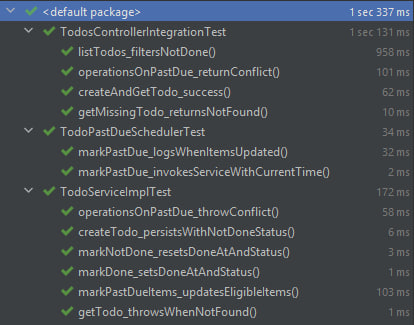
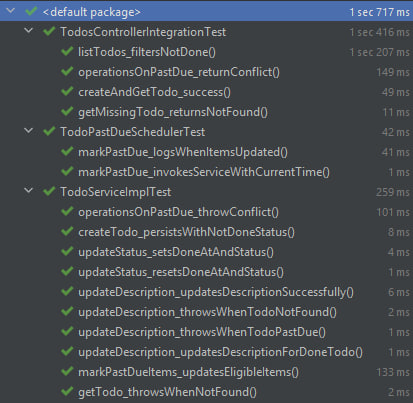
feat: improved rest contracts & added some test

diff --git a/src/test/java/com/simplesystem/todoservice/service/TodoServiceImplTest.java b/src/test/java/com/simplesystem/todoservice/service/TodoServiceImplTest.java
@@ -63,21 +63,21 @@ class TodoServiceImplTest {
     }
 
     @Test
-    void markDone_setsDoneAtAndStatus() {
+    void updateStatus_setsDoneAtAndStatus() {
         val existing = new TodoItem();
         existing.setId(1L);
         existing.setStatus(TodoStatus.NOT_DONE);
         when(repository.findById(1L)).thenReturn(Optional.of(existing));
         when(repository.save(any(TodoItem.class))).thenAnswer(invocation -> invocation.getArgument(0));
 
-        var result = service.markDone(1L);
+        var result = service.updateStatus(1L, TodoStatus.DONE);
 
         assertThat(result.getStatus()).isEqualTo(TodoStatus.DONE);
         assertThat(result.getDoneAt()).isEqualTo(OffsetDateTime.now(clock));
     }
 
     @Test
-    void markNotDone_resetsDoneAtAndStatus() {
+    void updateStatus_resetsDoneAtAndStatus() {
         val existing = new TodoItem();
         existing.setId(1L);
         existing.setStatus(TodoStatus.DONE);
@@ -85,10 +85,64 @@ class TodoServiceImplTest {
         when(repository.findById(1L)).thenReturn(Optional.of(existing));
         when(repository.save(any(TodoItem.class))).thenAnswer(invocation -> invocation.getArgument(0));
 
-        val result = service.markNotDone(1L);
+        val result = service.updateStatus(1L, TodoStatus.NOT_DONE);
 
         assertThat(result.getStatus()).isEqualTo(TodoStatus.NOT_DONE);
         assertThat(result.getDoneAt()).isNull();
+    }
+
+    @Test
+    void updateDescription_updatesDescriptionSuccessfully() {
+        val existing = new TodoItem();
+        existing.setId(1L);
+        existing.setDescription("old description");
+        existing.setStatus(TodoStatus.NOT_DONE);
+        when(repository.findById(1L)).thenReturn(Optional.of(existing));
+        when(repository.save(any(TodoItem.class))).thenAnswer(invocation -> invocation.getArgument(0));
+
+        val result = service.updateDescription(1L, "new description");
+
+        assertThat(result.getDescription()).isEqualTo("new description");
+        assertThat(result.getId()).isEqualTo(1L);
+        assertThat(result.getStatus()).isEqualTo(TodoStatus.NOT_DONE);
+        verify(repository).save(existing);
+    }
+
+    @Test
+    void updateDescription_throwsWhenTodoNotFound() {
+        when(repository.findById(99L)).thenReturn(Optional.empty());
+
+        assertThatThrownBy(() -> service.updateDescription(99L, "new description"))
+                .isInstanceOf(TodoNotFoundException.class);
+        verify(repository, never()).save(any());
+    }
+
+    @Test
+    void updateDescription_throwsWhenTodoPastDue() {
+        val existing = new TodoItem();
+        existing.setId(1L);
+        existing.setStatus(TodoStatus.PAST_DUE);
+        when(repository.findById(1L)).thenReturn(Optional.of(existing));
+
+        assertThatThrownBy(() -> service.updateDescription(1L, "new description"))
+                .isInstanceOf(PastDueModificationNotAllowedException.class);
+        verify(repository, never()).save(any());
+    }
+
+    @Test
+    void updateDescription_updatesDescriptionForDoneTodo() {
+        val existing = new TodoItem();
+        existing.setId(1L);
+        existing.setDescription("old description");
+        existing.setStatus(TodoStatus.DONE);
+        when(repository.findById(1L)).thenReturn(Optional.of(existing));
+        when(repository.save(any(TodoItem.class))).thenAnswer(invocation -> invocation.getArgument(0));
+
+        val result = service.updateDescription(1L, "updated description");
+
+        assertThat(result.getDescription()).isEqualTo("updated description");
+        assertThat(result.getStatus()).isEqualTo(TodoStatus.DONE);
+        verify(repository).save(existing);
     }
 
     @Test
@@ -100,9 +154,9 @@ class TodoServiceImplTest {
 
         assertThatThrownBy(() -> service.updateDescription(1L, "x"))
                 .isInstanceOf(PastDueModificationNotAllowedException.class);
-        assertThatThrownBy(() -> service.markDone(1L))
+        assertThatThrownBy(() -> service.updateStatus(1L, TodoStatus.DONE))
                 .isInstanceOf(PastDueModificationNotAllowedException.class);
-        assertThatThrownBy(() -> service.markNotDone(1L))
+        assertThatThrownBy(() -> service.updateStatus(1L, TodoStatus.NOT_DONE))
                 .isInstanceOf(PastDueModificationNotAllowedException.class);
     }
 

diff --git a/src/main/java/com/simplesystem/todoservice/service/TodoServiceImpl.java b/src/main/java/com/simplesystem/todoservice/service/TodoServiceImpl.java
@@ -53,6 +53,26 @@ public class TodoServiceImpl implements TodoService {
     }
 
     @Override
+    public TodoItem updateStatus(Long id, TodoStatus statusToUpdate) {
+        if (statusToUpdate == TodoStatus.PAST_DUE) {
+            throw new IllegalArgumentException(String.format("Status for todo item with id '%d' can not be updated to 'past_due' via the respective endpoints", id));
+        }
+        val item = repository.findById(id).orElseThrow(() -> new TodoNotFoundException(id));
+
+        if (item.getStatus() == TodoStatus.PAST_DUE) {
+            throw new PastDueModificationNotAllowedException(id);
+        }
+        item.setStatus(statusToUpdate);
+
+        if (statusToUpdate == TodoStatus.DONE) {
+            item.setDoneAt(OffsetDateTime.now(clock));
+        } else {
+            item.setDoneAt(null);
+        }
+        return repository.save(item);
+    }
+
+    @Override
     public TodoItem updateDescription(Long id, String description) {
         val item = repository.findById(id).orElseThrow(() -> new TodoNotFoundException(id));
 
@@ -60,30 +80,6 @@ public class TodoServiceImpl implements TodoService {
             throw new PastDueModificationNotAllowedException(id);
         }
         item.setDescription(description);
-        return repository.save(item);
-    }
-
-    @Override
-    public TodoItem markDone(Long id) {
-        val item = repository.findById(id).orElseThrow(() -> new TodoNotFoundException(id));
-
-        if (item.getStatus() == TodoStatus.PAST_DUE) {
-            throw new PastDueModificationNotAllowedException(id);
-        }
-        item.setStatus(TodoStatus.DONE);
-        item.setDoneAt(OffsetDateTime.now(clock));
-        return repository.save(item);
-    }
-
-    @Override
-    public TodoItem markNotDone(Long id) {
-        val item = repository.findById(id).orElseThrow(() -> new TodoNotFoundException(id));
-
-        if (item.getStatus() == TodoStatus.PAST_DUE) {
-            throw new PastDueModificationNotAllowedException(id);
-        }
-        item.setStatus(TodoStatus.NOT_DONE);
-        item.setDoneAt(null);
         return repository.save(item);
     }
 

diff --git a/src/test/java/com/simplesystem/todoservice/controller/TodosControllerIntegrationTest.java b/src/test/java/com/simplesystem/todoservice/controller/TodosControllerIntegrationTest.java
@@ -45,11 +45,11 @@ class TodosControllerIntegrationTest {
     @Test
     void createAndGetTodo_success() throws Exception {
         val payload = """
-            {
-              "description": "Test todo",
-              "dueAt": "2030-01-01T10:00:00Z"
-            }
-            """;
+                {
+                  "description": "Test todo",
+                  "dueAt": "2030-01-01T10:00:00Z"
+                }
+                """;
 
         val response = mockMvc.perform(post("/todos")
                         .contentType(MediaType.APPLICATION_JSON)
@@ -99,15 +99,19 @@ class TodosControllerIntegrationTest {
         item.setDueAt(OffsetDateTime.now().minusDays(1));
         item = repository.save(item);
 
-        mockMvc.perform(put("/todos/{id}/description", item.getId())
+        mockMvc.perform(patch("/todos/{id}/description", item.getId())
                         .contentType(MediaType.APPLICATION_JSON)
                         .content("{\"description\":\"new\"}"))
                 .andExpect(status().isConflict());
 
-        mockMvc.perform(post("/todos/{id}/done", item.getId()))
+        mockMvc.perform(patch("/todos/{id}/status", item.getId())
+                        .contentType(MediaType.APPLICATION_JSON)
+                        .content("{\"status\":\"done\"}"))
                 .andExpect(status().isConflict());
 
-        mockMvc.perform(post("/todos/{id}/not-done", item.getId()))
+        mockMvc.perform(patch("/todos/{id}/status", item.getId())
+                        .contentType(MediaType.APPLICATION_JSON)
+                        .content("{\"status\":\"not_done\"}"))
                 .andExpect(status().isConflict());
     }
 

diff --git a/src/main/java/com/simplesystem/todoservice/api/impl/TodosController.java b/src/main/java/com/simplesystem/todoservice/api/impl/TodosController.java
@@ -4,6 +4,7 @@ import com.simplesystem.todoservice.api.TodosApi;
 import com.simplesystem.todoservice.api.model.CreateTodoDto;
 import com.simplesystem.todoservice.api.model.TodoItemDto;
 import com.simplesystem.todoservice.api.model.UpdateDescriptionDto;
+import com.simplesystem.todoservice.api.model.UpdateStatusDto;
 import com.simplesystem.todoservice.mapper.TodoMapper;
 import com.simplesystem.todoservice.service.TodoService;
 import lombok.RequiredArgsConstructor;
@@ -50,20 +51,15 @@ public class TodosController implements TodosApi {
     }
 
     @Override
+    public ResponseEntity<TodoItemDto> updateStatus(Long id, UpdateStatusDto updateStatusDto) {
+        val statusToUpdate = todoMapper.mapToStatus(updateStatusDto.getStatus());
+        val updated = todoService.updateStatus(id, statusToUpdate);
+        return ResponseEntity.ok(todoMapper.mapToDto(updated));
+    }
+
+    @Override
     public ResponseEntity<TodoItemDto> updateDescription(Long id, UpdateDescriptionDto updateDescriptionDto) {
         val updated = todoService.updateDescription(id, updateDescriptionDto.getDescription());
-        return ResponseEntity.ok(todoMapper.mapToDto(updated));
-    }
-
-    @Override
-    public ResponseEntity<TodoItemDto> markDone(Long id) {
-        val updated = todoService.markDone(id);
-        return ResponseEntity.ok(todoMapper.mapToDto(updated));
-    }
-
-    @Override
-    public ResponseEntity<TodoItemDto> markNotDone(Long id) {
-        val updated = todoService.markNotDone(id);
         return ResponseEntity.ok(todoMapper.mapToDto(updated));
     }
 }

diff --git a/src/main/java/com/simplesystem/todoservice/service/TodoService.java b/src/main/java/com/simplesystem/todoservice/service/TodoService.java
@@ -14,11 +14,9 @@ public interface TodoService {
 
     List<TodoItem> listTodos(List<TodoStatus> statuses);
 
+    TodoItem updateStatus(Long id, TodoStatus statusToUpdate);
+
     TodoItem updateDescription(Long id, String description);
-
-    TodoItem markDone(Long id);
-
-    TodoItem markNotDone(Long id);
 
     int markPastDueItems(OffsetDateTime now);
 }

diff --git a/src/main/java/com/simplesystem/todoservice/mapper/TodoMapper.java b/src/main/java/com/simplesystem/todoservice/mapper/TodoMapper.java
@@ -34,5 +34,8 @@ public interface TodoMapper {
     default TodoStatus mapToStatus(String status) {
         return status != null ? TodoStatus.valueOf(status.toUpperCase()) : null;
     }
+    default TodoStatus mapToStatus(TodoStatusDto status) {
+        return status != null ? TodoStatus.valueOf(status.name()) : null;
+    }
 }
 
